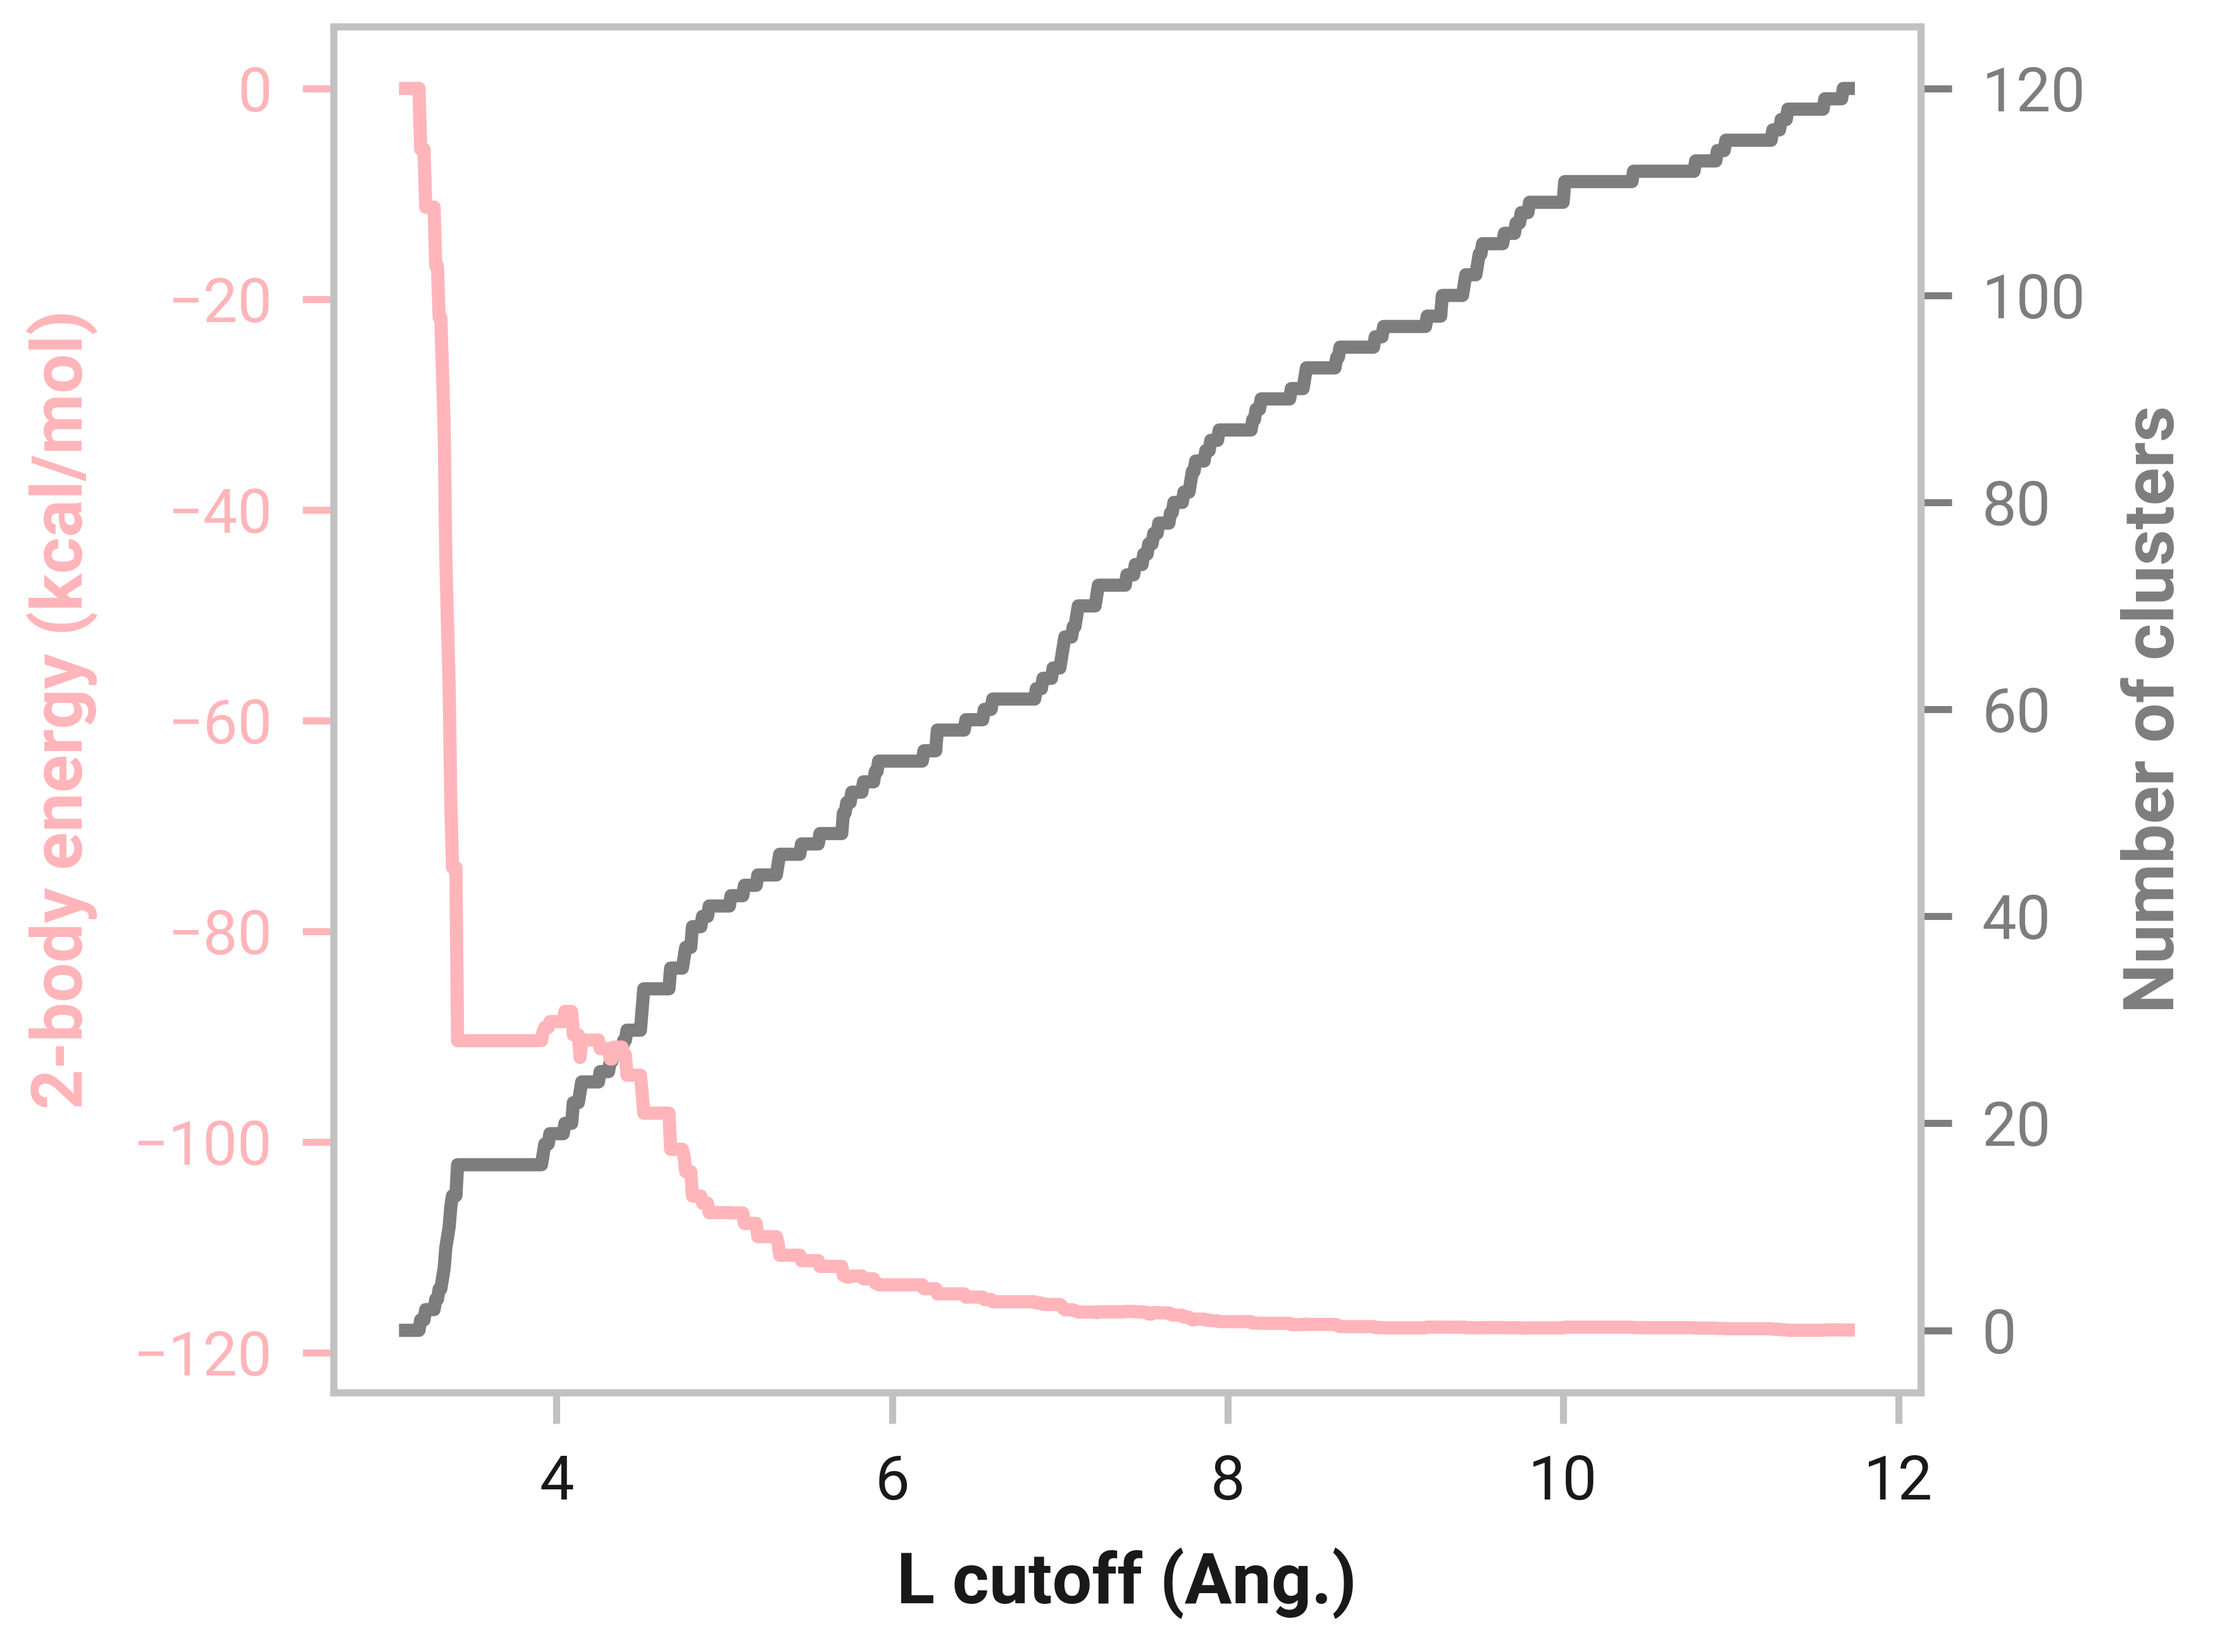
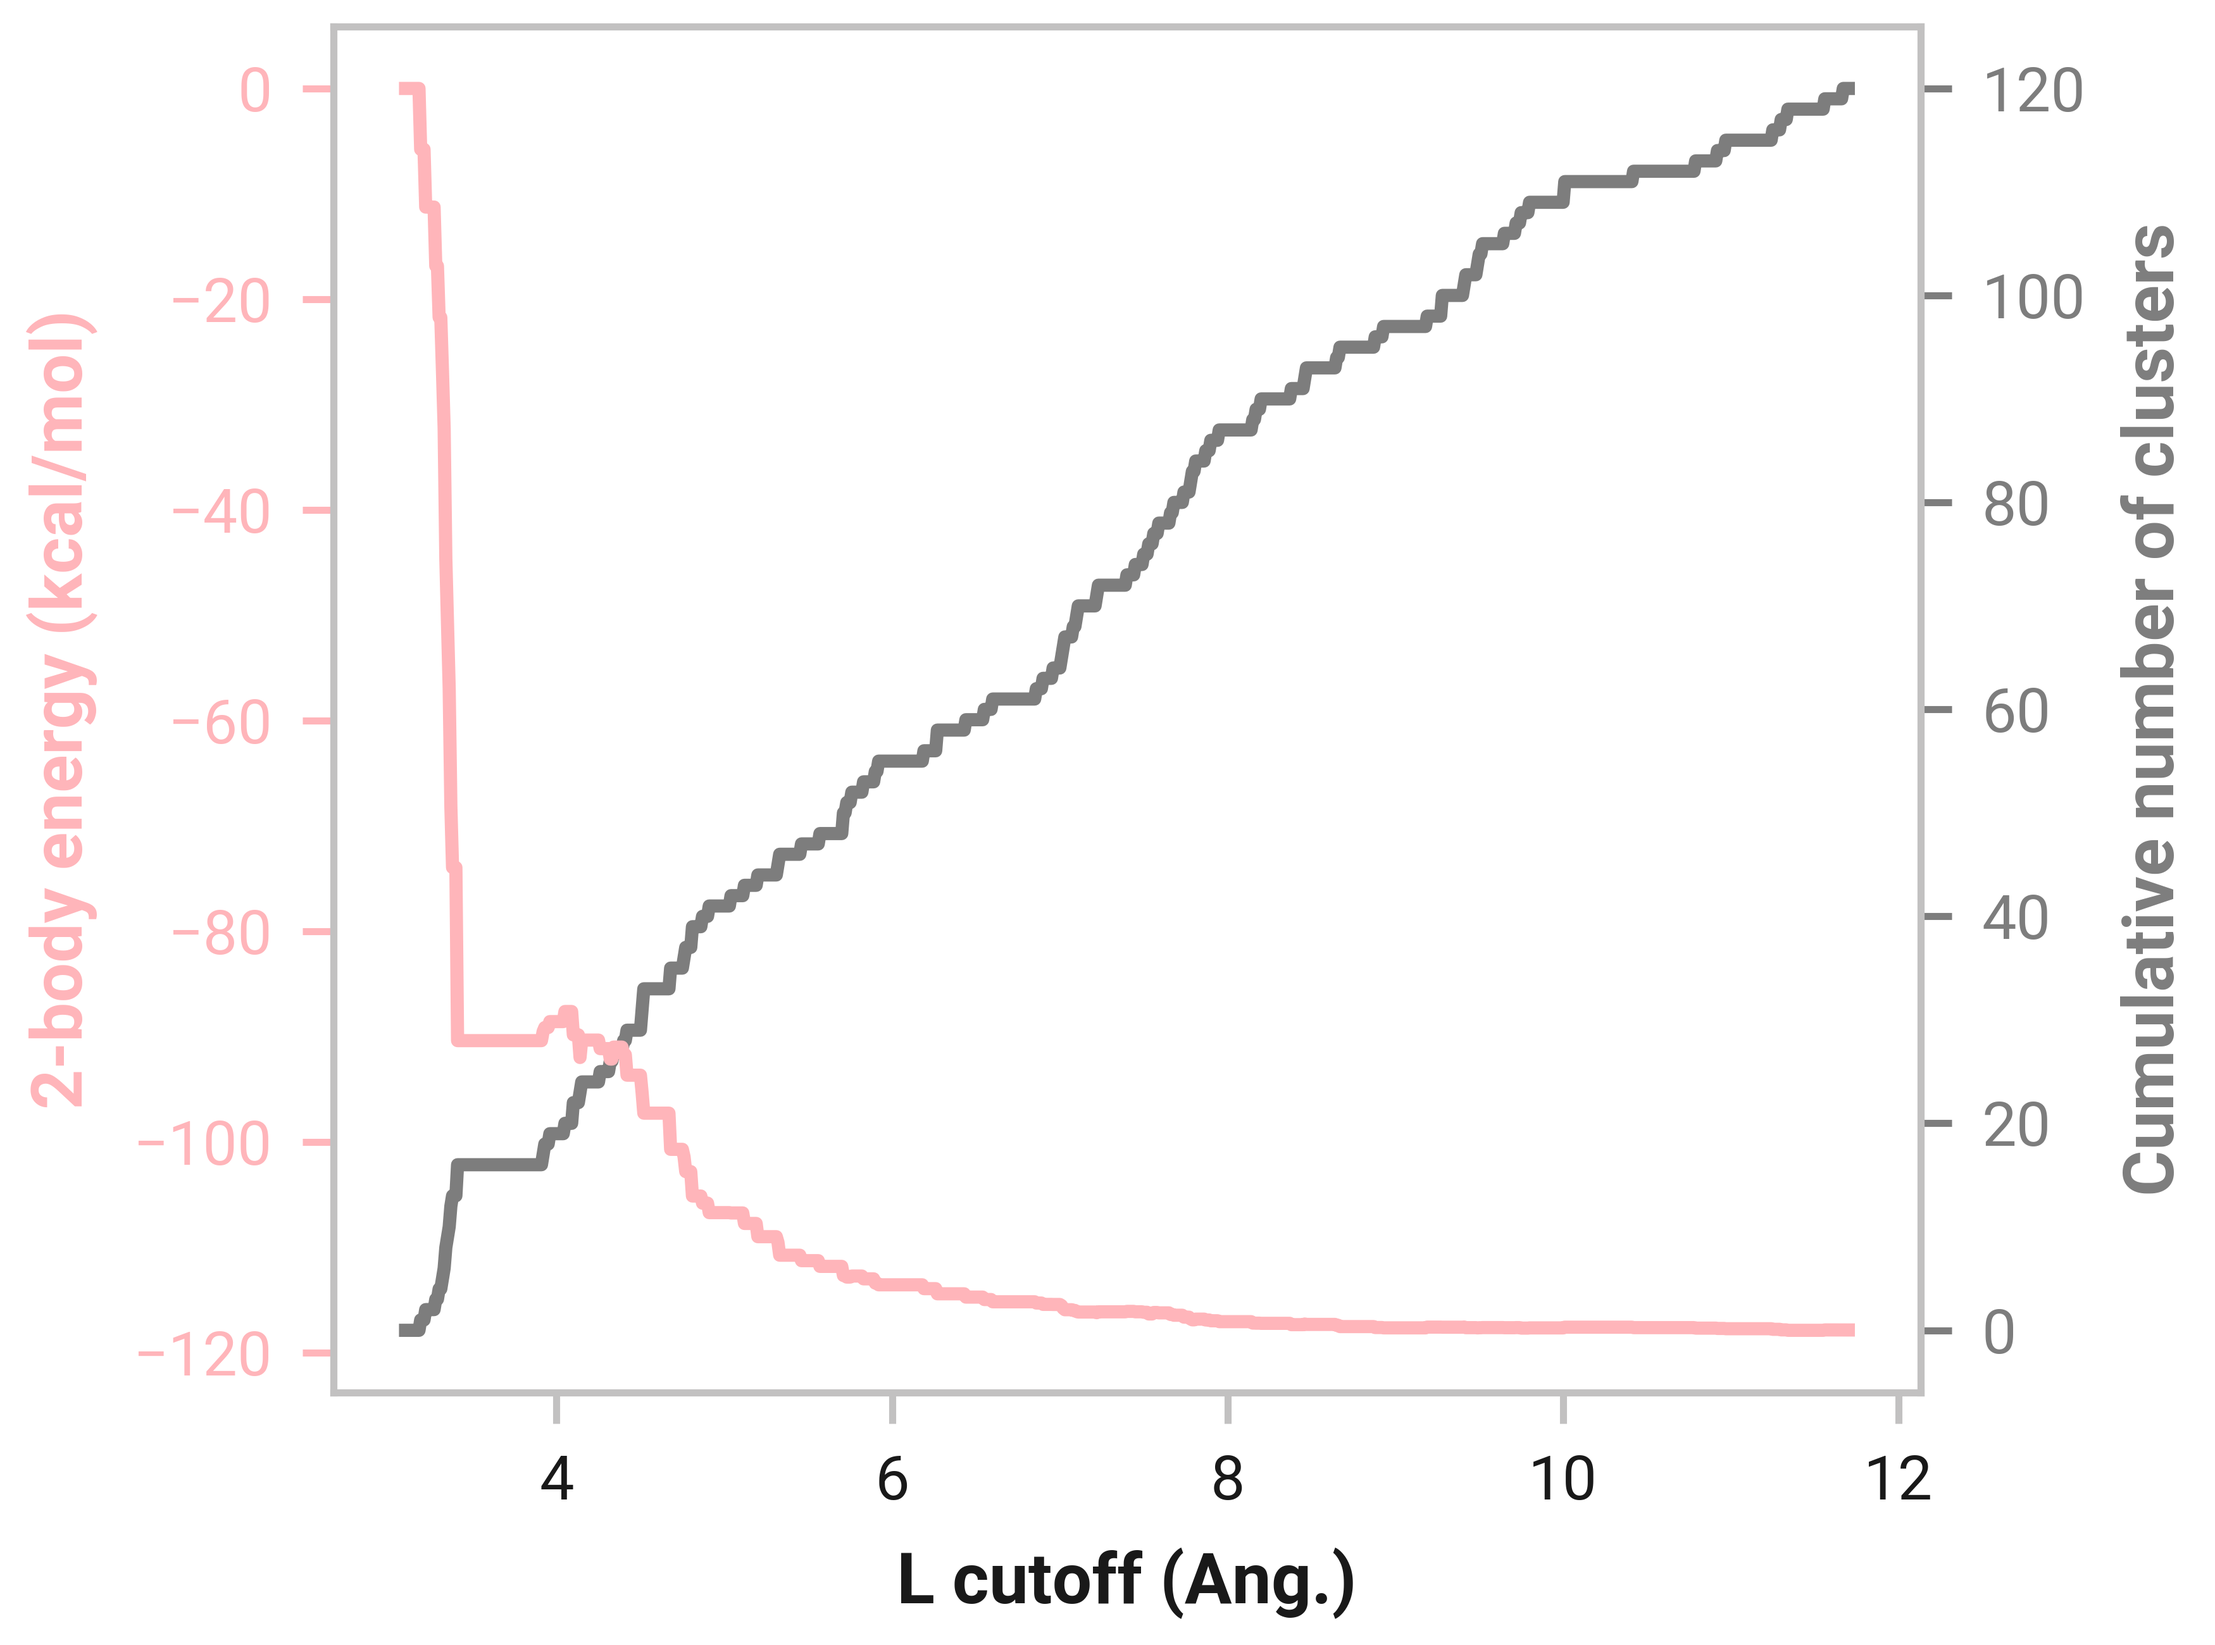
Fix n-body energy wrt l fig labels

Changed region(s): [[0.9343, 0.1246, 0.9966, 0.7477]]

diff --git a/scripts/dsets/figure-datasets-nbody-convergence.py b/scripts/dsets/figure-datasets-nbody-convergence.py
@@ -152,8 +152,7 @@ for plot_name, data in plot_data.items():
     # Calculate size metric
     L = np.empty(len(R))
     for i in range(len(R)):
-        _, l = cm_distance_sum(Z, R[i], None, entity_ids)
-        L[i] = l
+        L[i] = com_distance_sum(Z, R[i], entity_ids)
 
 
     # Generates range of L cutoffs.
@@ -224,7 +223,7 @@ for plot_name, data in plot_data.items():
     # Axis labels
     ax.set_xlabel('L cutoff (Ang.)')
     ax.set_ylabel(f'{mb_order}-body energy (kcal/mol)', color=color)
-    ax2.set_ylabel(f'Number of clusters', color=cluster_num_color)
+    ax2.set_ylabel(f'Cumulative number of clusters', color=cluster_num_color)
 
     # Axis tick label colors
     ax.tick_params(axis='y', colors=color)
